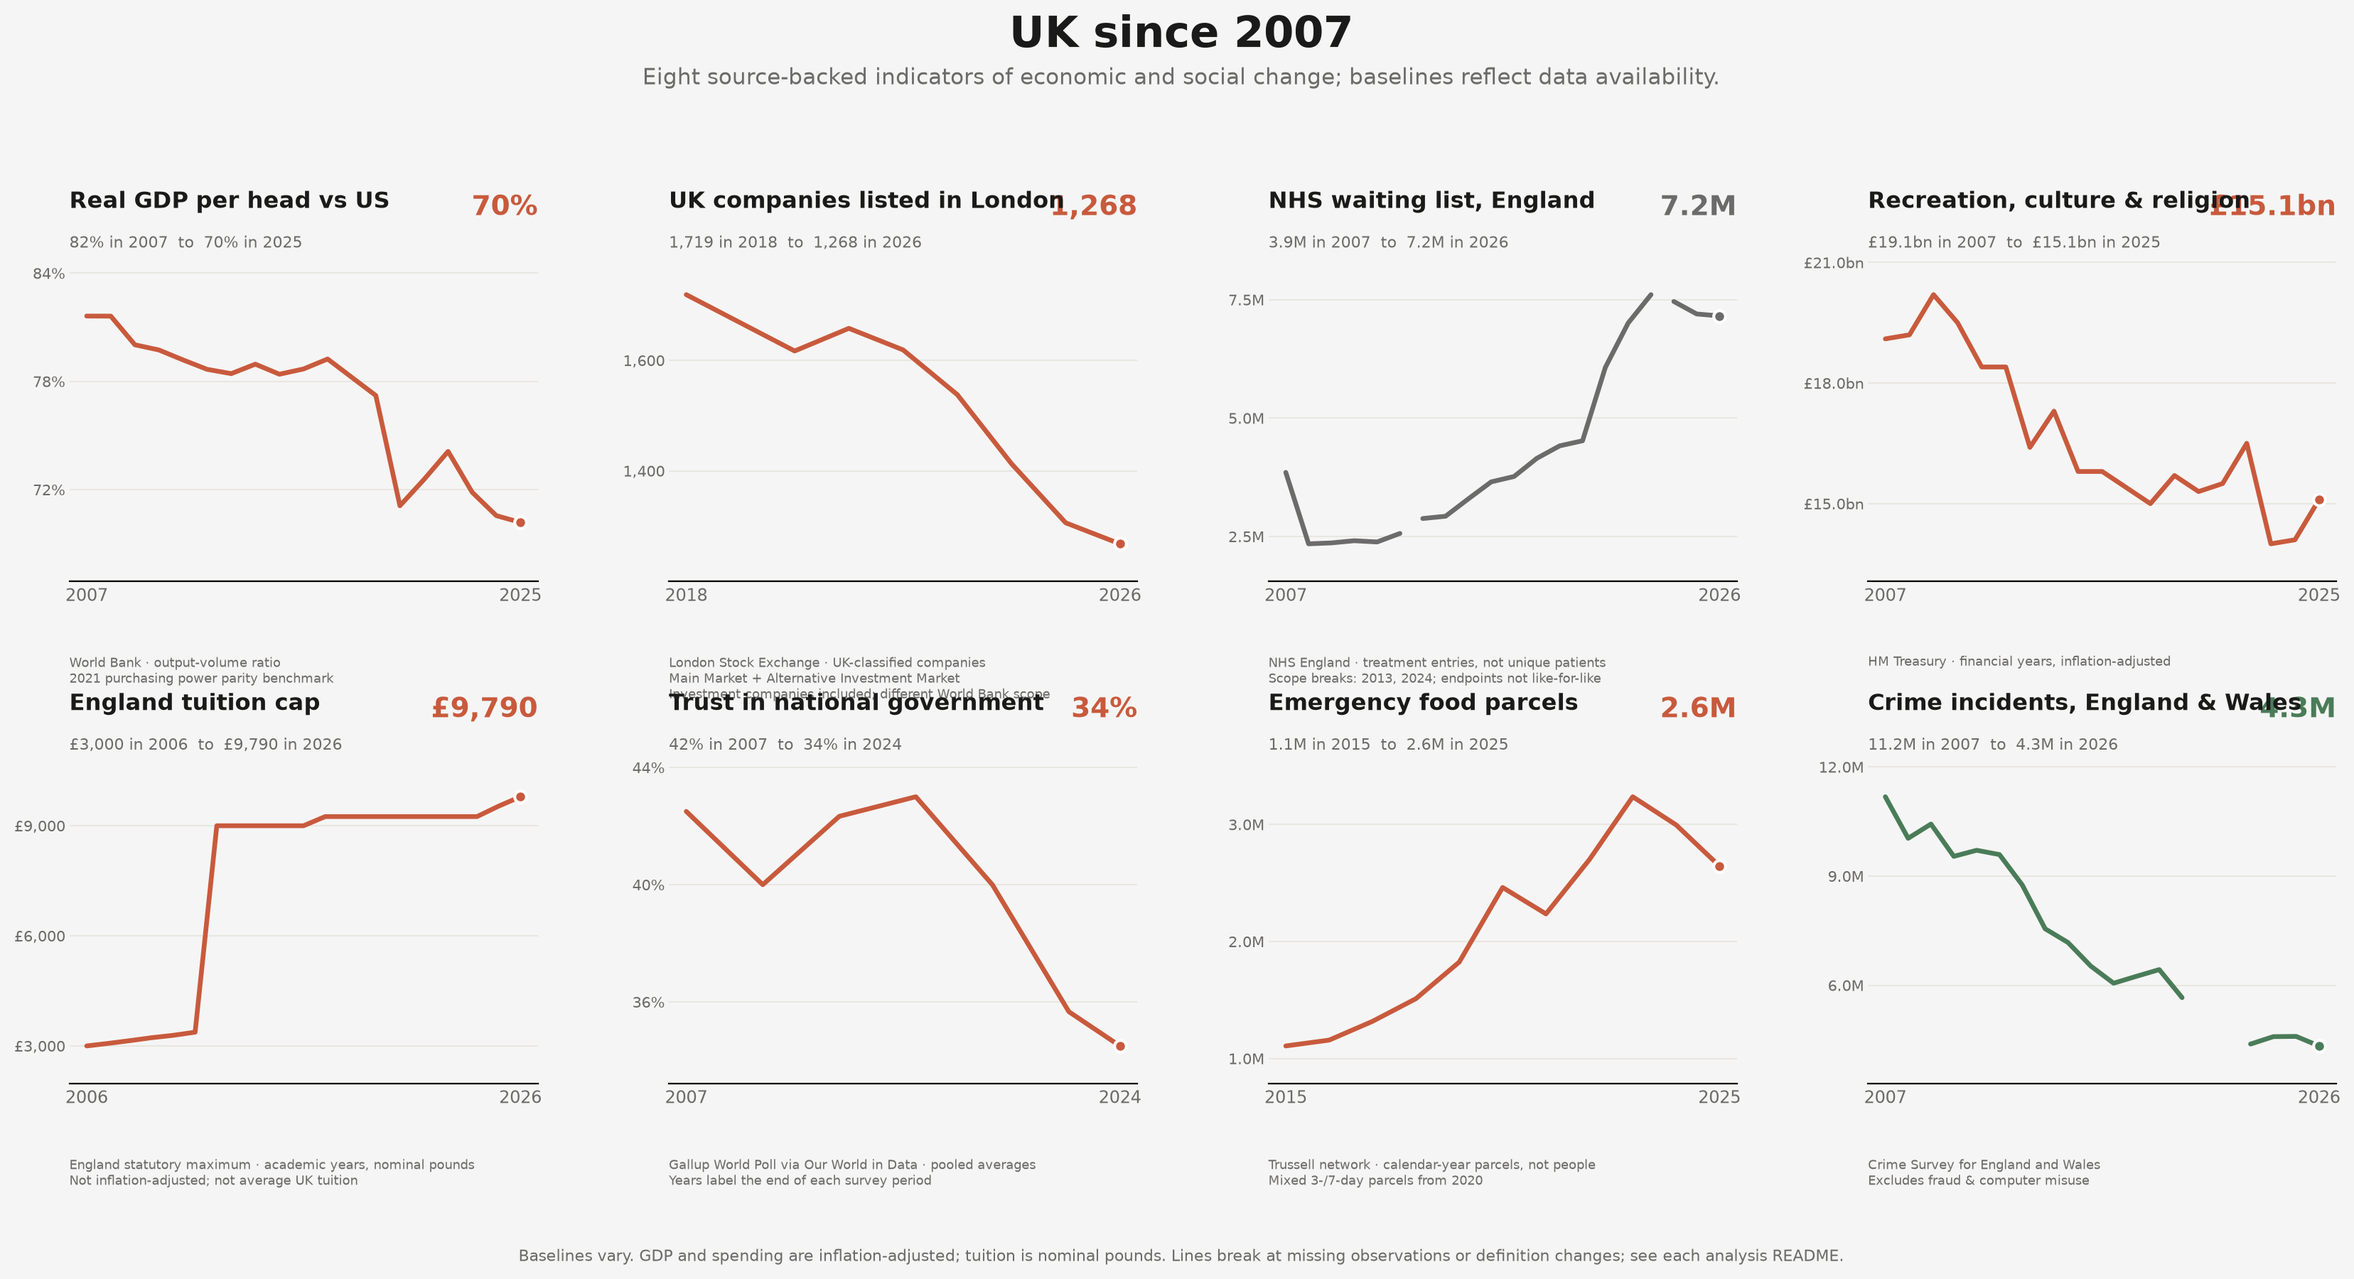
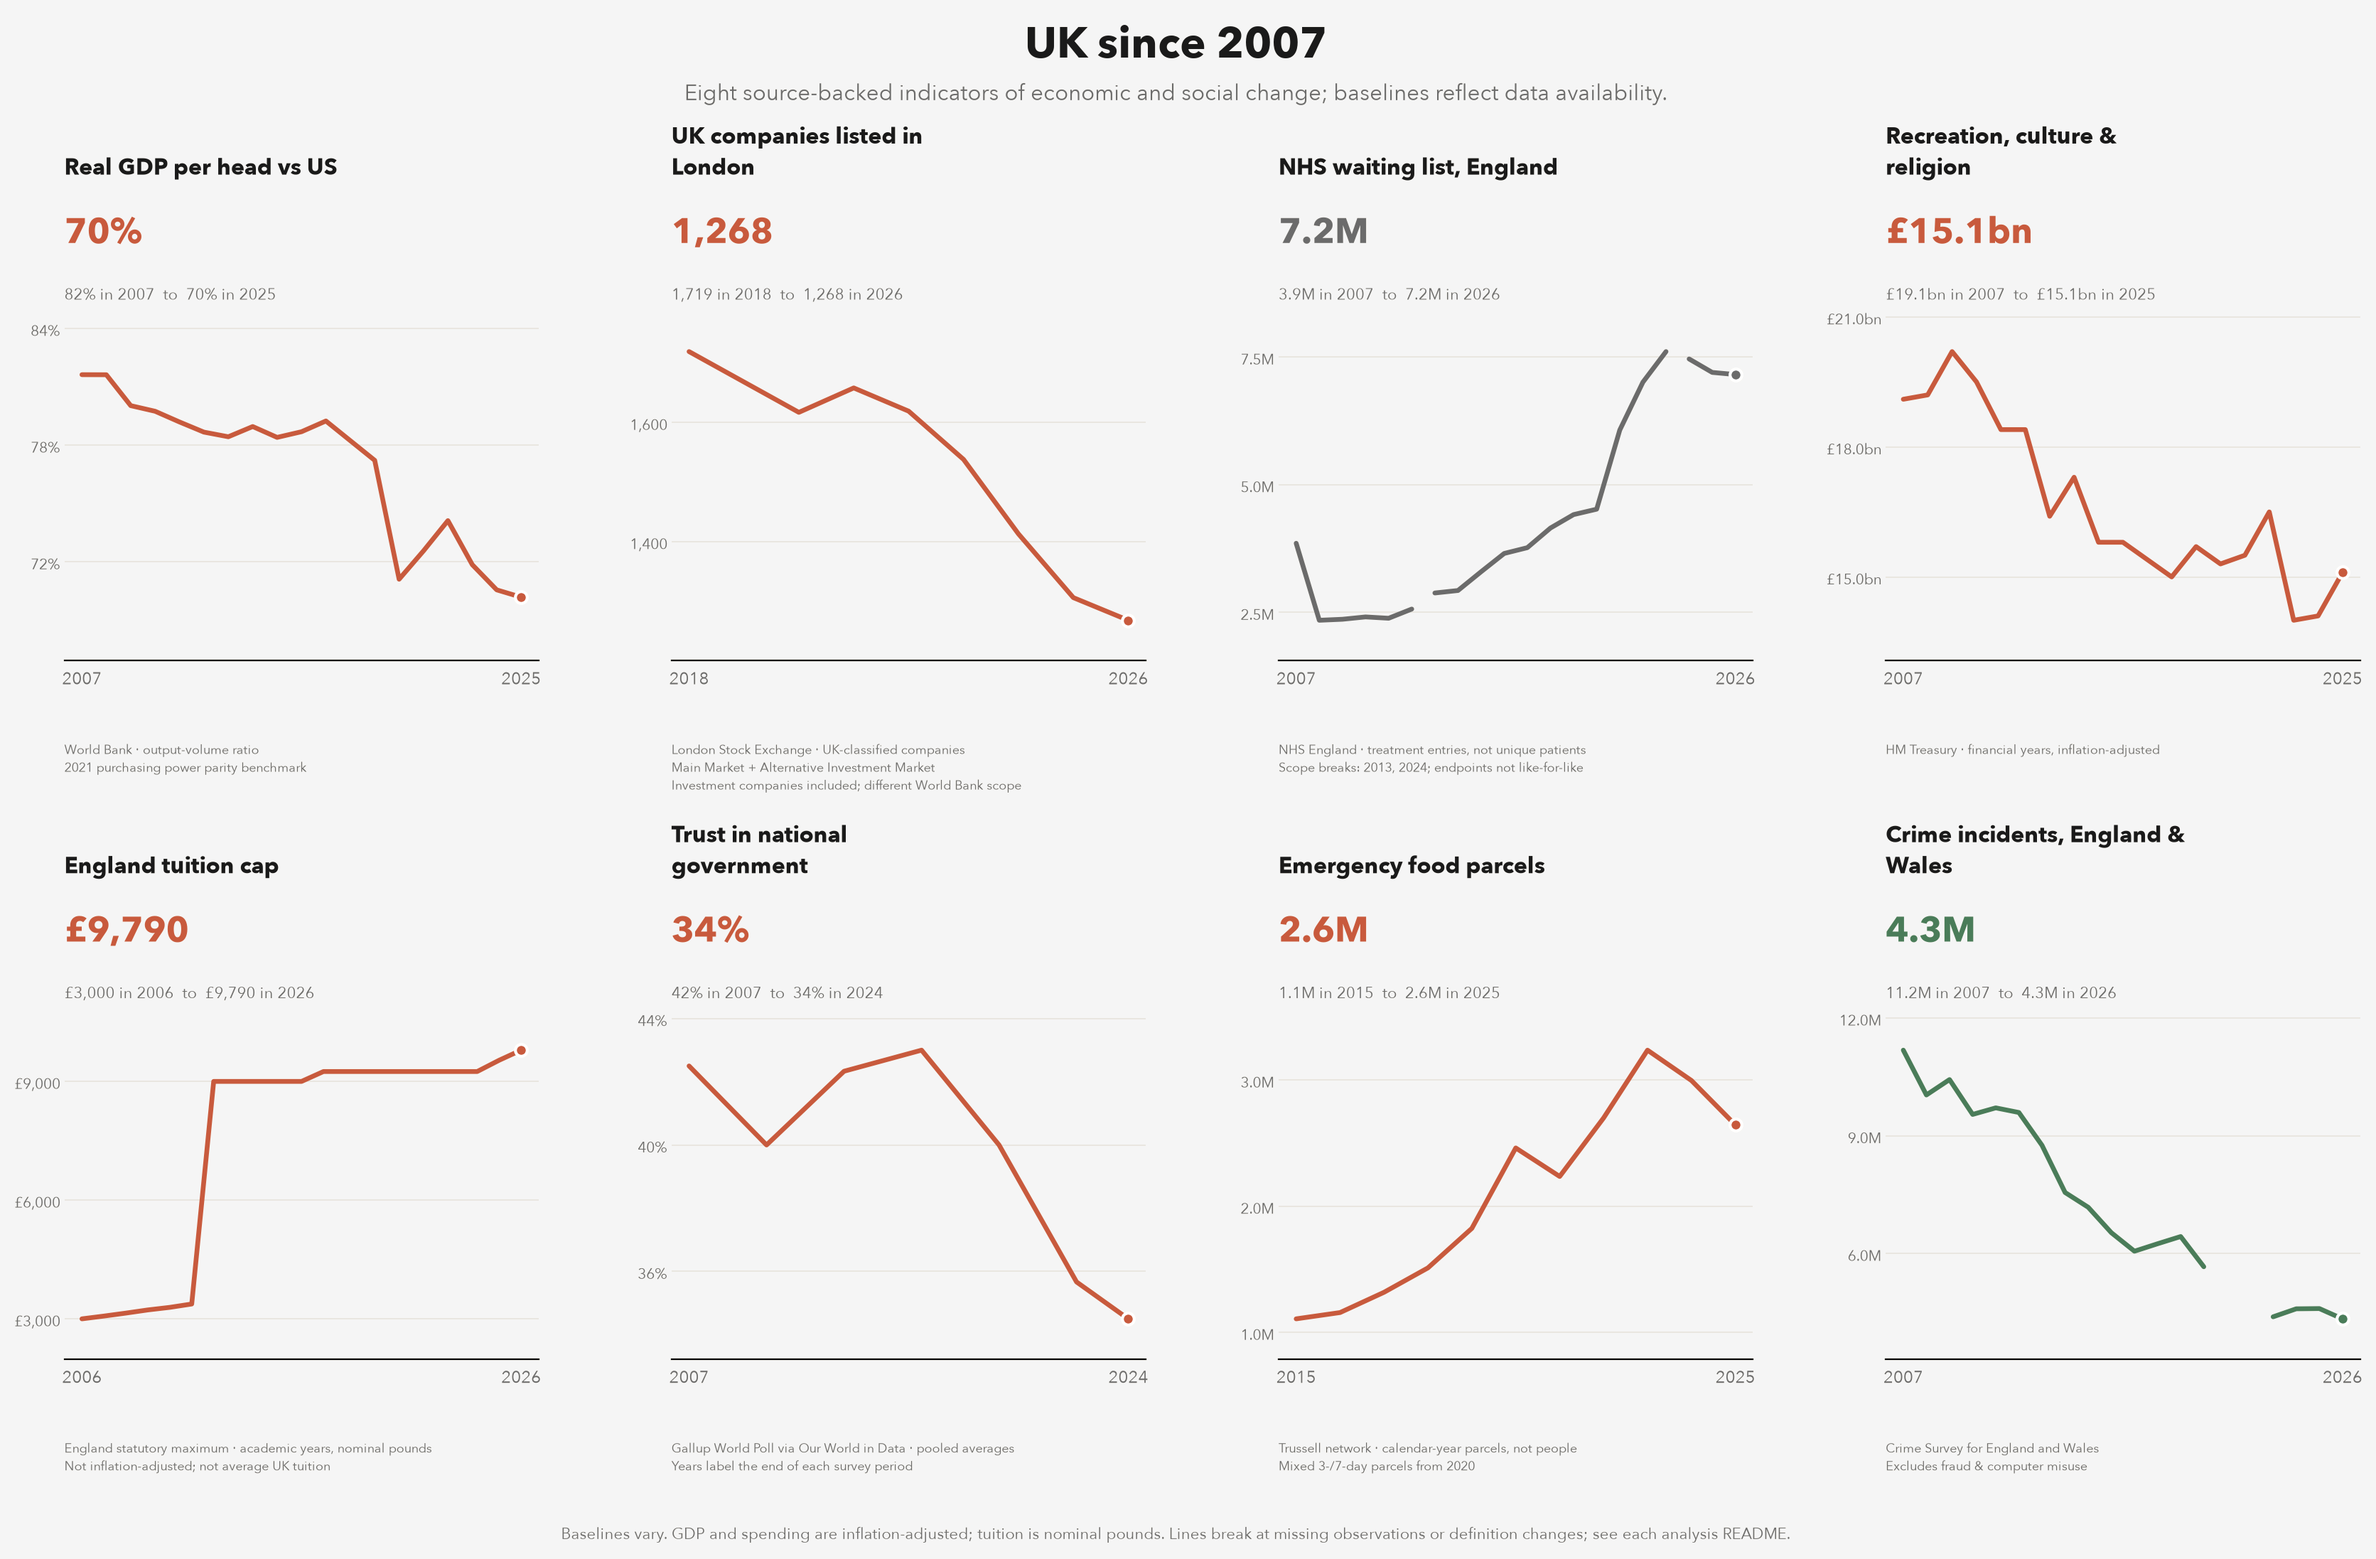
Separate scorecard headings and values and prevent source-note overlaps

diff --git a/tests/test_scorecard.py b/tests/test_scorecard.py
@@ -4,6 +4,11 @@ from __future__ import annotations
 
 import csv
 
+from matplotlib.backends.backend_agg import FigureCanvasAgg
+from matplotlib.figure import Figure
+from matplotlib.text import Text
+import pytest
+
 import scorecard
 
 
@@ -252,3 +257,52 @@ def test_main_rejects_empty_panel_instead_of_saving_incomplete_scorecard(tmp_pat
     assert scorecard.main() == 2
     assert "Missing metric: no observations from 2007 onward" in capsys.readouterr().err
     assert not (tmp_path / "uk_decline_scorecard.png").exists()
+
+
+@pytest.mark.parametrize("font", ["DejaVu Sans", "DejaVu Sans Mono"])
+def test_scorecard_headers_and_sources_do_not_overlap(monkeypatch, font):
+    figures = []
+    monkeypatch.setattr(Figure, "savefig", lambda fig, *args, **kwargs: figures.append(fig))
+    with scorecard.plt.rc_context({"font.sans-serif": [font]}):
+        assert scorecard.main() == 0
+        fig = figures[0]
+        canvas = FigureCanvasAgg(fig)
+        canvas.draw()
+        renderer = canvas.get_renderer()
+        titles = []
+        sources = []
+        for ax in fig.axes:
+            title = next(
+                artist for artist in ax.get_children()
+                if isinstance(artist, Text)
+                and artist.get_text() == ax.get_title(loc="left")
+            )
+            title_box = title.get_window_extent(renderer)
+            value_box = ax.texts[0].get_window_extent(renderer)
+            baseline_box = ax.texts[1].get_window_extent(renderer)
+            source_box = ax.texts[2].get_window_extent(renderer)
+            plot_box = ax.get_window_extent(renderer)
+            assert title_box.y0 >= value_box.y1 + 8
+            assert value_box.y0 >= baseline_box.y1 + 5
+            assert baseline_box.y0 >= plot_box.y1 + 2
+            for box in (title_box, value_box, baseline_box, source_box):
+                assert box.x0 >= plot_box.x0 - 1
+                assert box.x1 <= plot_box.x1 + 1
+            ticks_bottom = min(
+                tick.get_window_extent(renderer).y0 for tick in ax.get_xticklabels()
+            )
+            assert source_box.y1 <= ticks_bottom - 8
+            titles.append(title_box)
+            sources.append(source_box)
+        for upper, lower in zip(sources[:4], titles[4:]):
+            assert upper.y0 >= lower.y1 + 8
+        subtitle = next(
+            text for text in fig.texts if text.get_text().startswith("Eight source-backed")
+        )
+        subtitle_box = subtitle.get_window_extent(renderer)
+        assert subtitle_box.y0 >= max(box.y1 for box in titles[:4]) + 8
+        footer = next(
+            text for text in fig.texts if text.get_text().startswith("Baselines vary.")
+        )
+        footer_box = footer.get_window_extent(renderer)
+        assert footer_box.y1 <= min(box.y0 for box in sources[4:]) - 8

diff --git a/scorecard.py b/scorecard.py
@@ -14,6 +14,7 @@ from datetime import date
 import pathlib
 import re
 import sys
+import textwrap
 
 import matplotlib
 
@@ -214,11 +215,11 @@ def _panel(ax, title, loader, fmt, good_dir, source, start, break_years=(),
     ax.plot([xs[-1]], [ys[-1]], "o", color=color, markersize=6,
             markeredgecolor="white", markeredgewidth=1.5, zorder=5)
 
-    # Header: title (top-left), latest value (top-right), start->latest (just above plot).
-    ax.set_title(title, fontsize=11.5, fontweight="bold", loc="left", pad=25, color=TEXT)
-    ax.annotate(fmt(ys[-1]), xy=(1, 1), xycoords="axes fraction", xytext=(0, 18),
-                textcoords="offset points", fontsize=14, fontweight="bold", color=color,
-                ha="right", va="bottom")
+    ax.set_title(textwrap.fill(title, width=26), fontsize=11.5, fontweight="bold",
+                 loc="left", y=1.0, pad=65, color=TEXT, va="bottom")
+    ax.annotate(fmt(ys[-1]), xy=(0, 1), xycoords="axes fraction", xytext=(0, 28),
+                textcoords="offset points", fontsize=18, fontweight="bold", color=color,
+                ha="left", va="bottom")
     ax.annotate(f"{fmt(ys[0])} in {xs[0]}  to  {fmt(ys[-1])} in {xs[-1]}",
                 xy=(0, 1), xycoords="axes fraction", xytext=(0, 3), textcoords="offset points",
                 fontsize=8, color=MUTED, ha="left", va="bottom")
@@ -260,7 +261,7 @@ def main() -> int:
             print(f"  {display_path}\n    {command}", file=sys.stderr)
         return 2
 
-    fig, axes = plt.subplots(2, 4, figsize=(17, 9))
+    fig, axes = plt.subplots(2, 4, figsize=(17, 11))
     try:
         for ax, panel in zip(axes.flat, PANELS):
             _panel(ax, *panel)
@@ -280,8 +281,8 @@ def main() -> int:
              "Lines break at missing observations or definition changes; see each analysis README.",
              ha="center", fontsize=8, color=MUTED)
 
-    fig.tight_layout(rect=[0.01, 0.03, 0.99, 0.92])
-    fig.subplots_adjust(hspace=0.55, wspace=0.28)
+    fig.subplots_adjust(left=0.04, right=0.99, bottom=0.13, top=0.80,
+                        hspace=1.0, wspace=0.28)
     OUT.mkdir(parents=True, exist_ok=True)
     path = OUT / "uk_decline_scorecard.png"
     fig.savefig(path, dpi=200, bbox_inches="tight")
